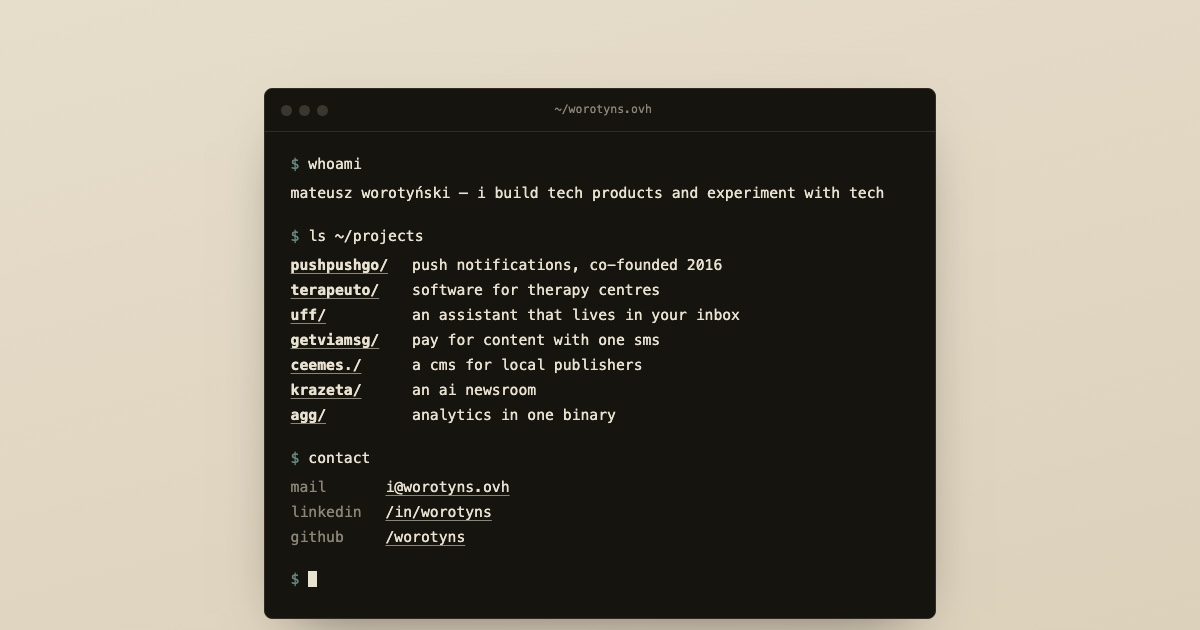
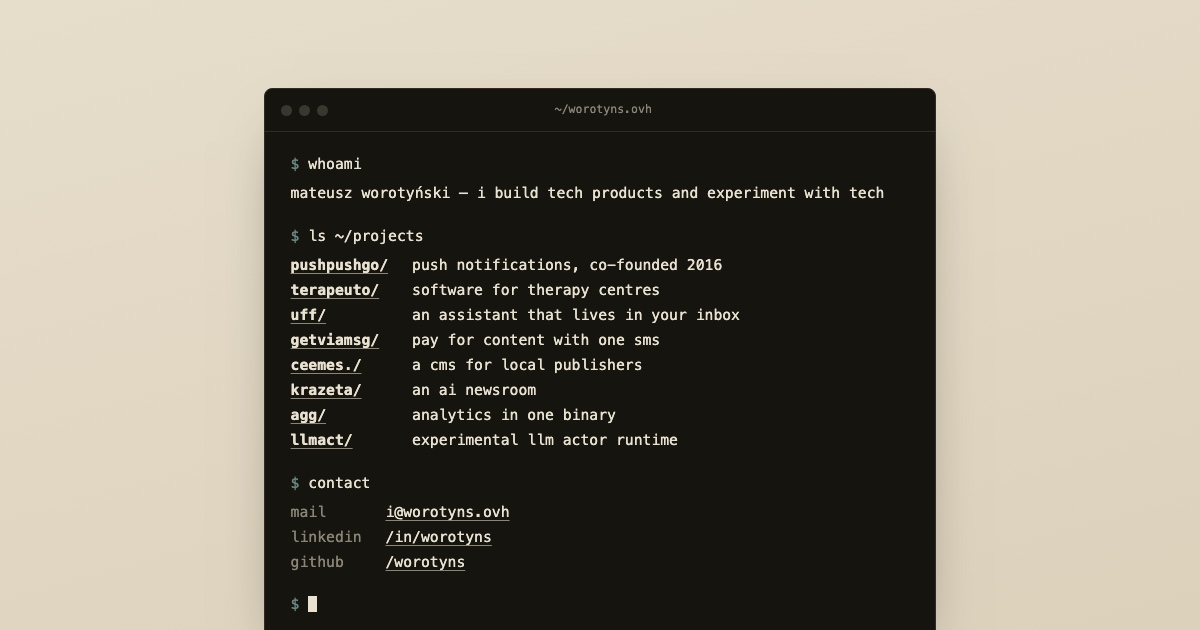
feat(site): llmact joins the projects

Changed region(s): [[0.2158, 0.6937, 0.8017, 1.0], [0.3392, 0.6937, 0.555, 0.7238]]

diff --git a/index.html b/index.html
@@ -4,7 +4,7 @@
   <meta charset="UTF-8">
   <meta name="viewport" content="width=device-width, initial-scale=1.0">
   <title>Mateusz Worotyński</title>
-  <meta name="description" content="Mateusz Worotyński — I build tech products and experiment with tech. PushPushGo, Terapeuto, uff.email, GetViaMsg, ceemes., Krazeta, agg.">
+  <meta name="description" content="Mateusz Worotyński — I build tech products and experiment with tech. PushPushGo, Terapeuto, uff.email, GetViaMsg, ceemes., Krazeta, agg, llmact.">
   <meta name="theme-color" content="#15140f">
   <link rel="canonical" href="https://worotyns.ovh/">
 
@@ -12,7 +12,7 @@
   <meta property="og:title" content="Mateusz Worotyński">
   <meta property="og:description" content="I build tech products and experiment with tech.">
   <meta property="og:url" content="https://worotyns.ovh/">
-  <meta property="og:image" content="https://worotyns.ovh/ogimage.jpg?v=1a458b58">
+  <meta property="og:image" content="https://worotyns.ovh/ogimage.jpg?v=d420b318">
   <meta name="twitter:card" content="summary_large_image">
 
   <link rel="apple-touch-icon" sizes="180x180" href="/apple-touch-icon.png">
@@ -41,6 +41,7 @@
       <dt><a href="https://ceemes.eu" rel="noopener" target="_blank">ceemes./</a></dt><dd>a cms for local publishers</dd>
       <dt><a href="https://krazeta.pl" rel="noopener" target="_blank">krazeta/</a></dt><dd>an ai newsroom</dd>
       <dt><a href="https://agg.worotyns.ovh" rel="noopener" target="_blank">agg/</a></dt><dd>analytics in one binary</dd>
+      <dt><a href="https://github.com/worotyns/llmact" rel="noopener" target="_blank">llmact/</a></dt><dd>experimental llm actor runtime</dd>
     </dl>
 
     <p class="cmd">contact</p>
